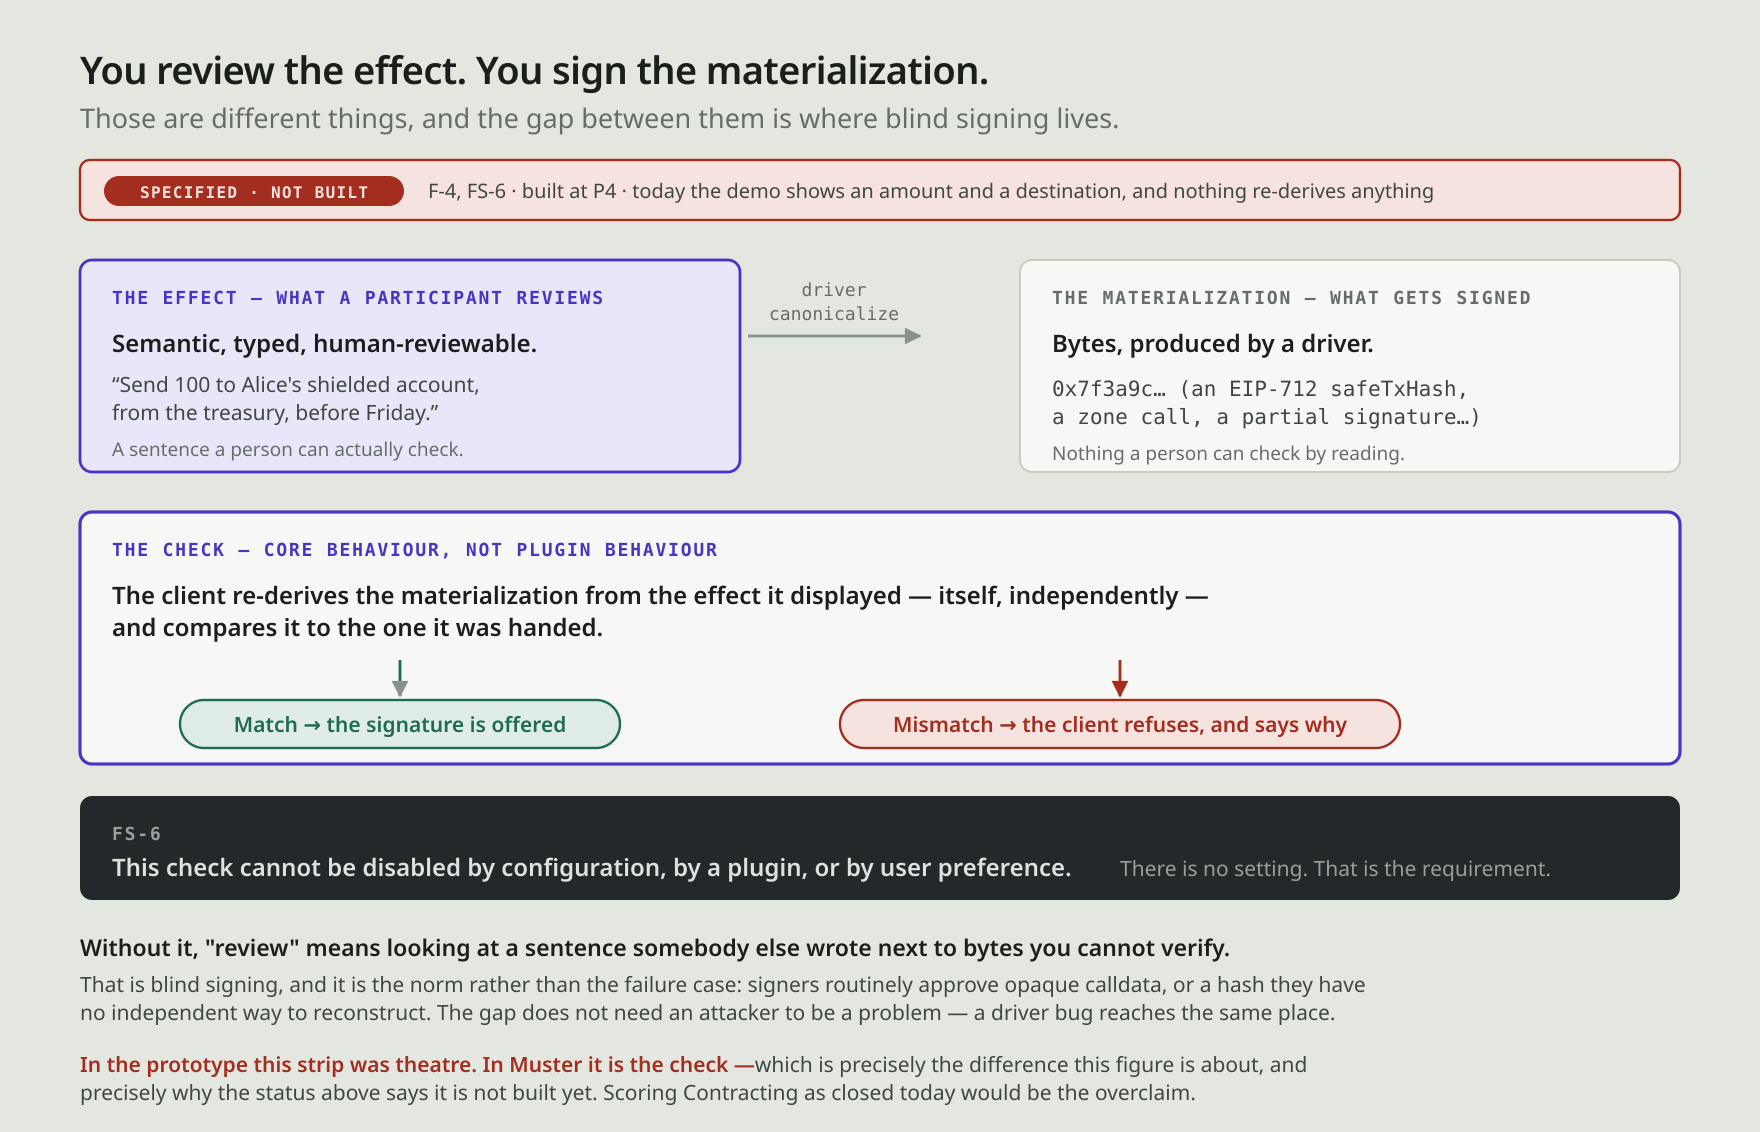
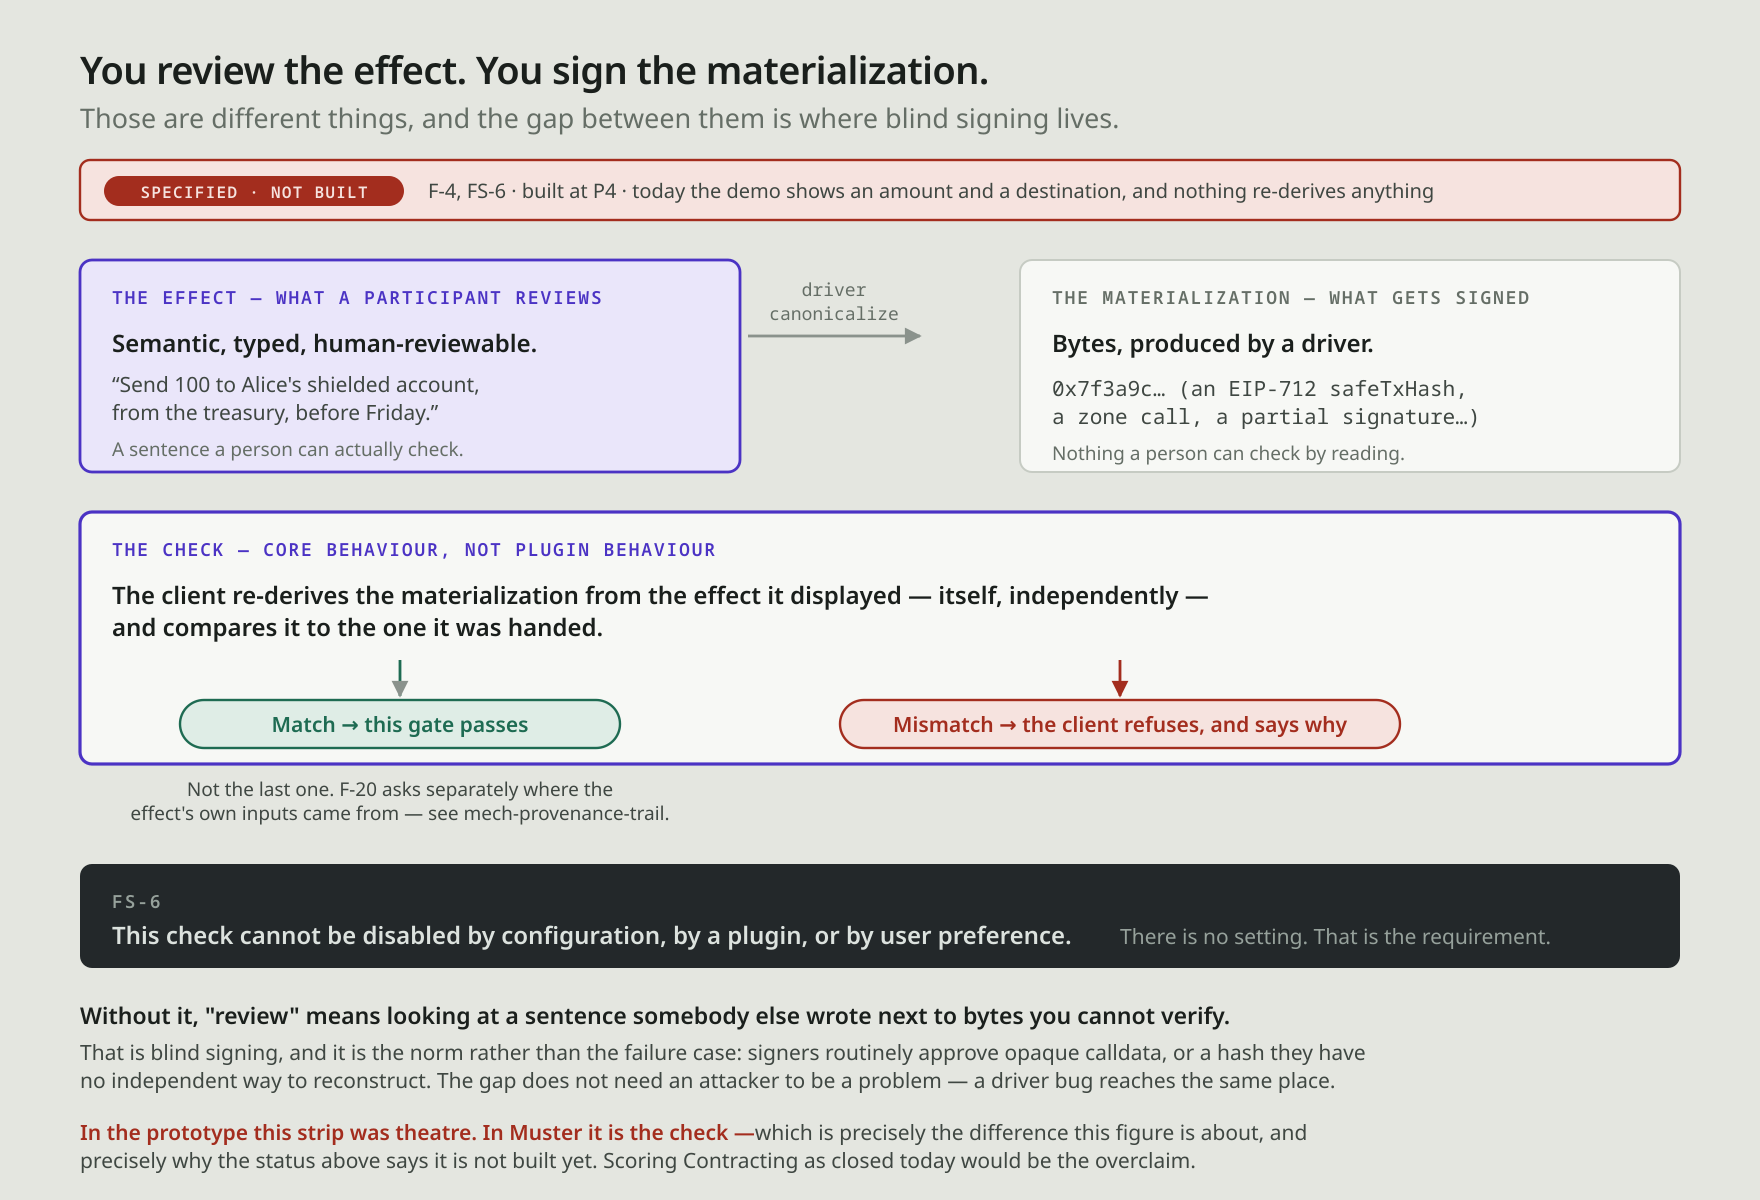
Give invariant 10 its requirements, and draw the hole it closes
Invariant 10 landed citing no requirement ids, because none existed —
every other invariant cites FURPS, and that is where the normative text
is supposed to live. So F-20 and FS-10, and the figure that draws them.

F-20 extends a seam that was already there rather than bolting one on.
F-3 carries "provenance references to facts it depends on" and F-10
grades a fact by how it was verified; F-20 generalizes both from facts to
every input on the signing path, adds the class and log position, and
adds the refusal. FS-10 is the outsider boundary and says out loud what
the boundary is NOT: a participant can always disclose lineage they
legitimately hold, and no requirement here pretends to stop them. The
conversation is the security boundary, so what FS-10 defends against is
reading from outside it.

mech-provenance-trail.svg draws the blind spot first and the fix second,
because the fix is uninteresting until you see that F-4 is satisfied by
correctly-derived data of unknown origin. It carries a harder status
banner than any other figure in the set: specified, no probes written,
four of six oracles waiting on an executor that does not exist. It is
published on the mech-two-identities reasoning — a hole is worth drawing
before its fix is built — not on the "specified and stable" one.

Following the manifest doctrine rather than re-stamping past the warnings
turned up two figures that F-20 had quietly falsified:
[…]

Changed region(s): [[0.0312, 0.0309, 0.9688, 0.9894], [0.0312, 0.0309, 0.0625, 0.0618]]

diff --git a/docs/diagrams/index.html b/docs/diagrams/index.html
@@ -267,9 +267,18 @@ content is measured, read from source, or illustrative.</p>
         <a class="thumb" href="mech-signing-payload.svg"><img src="mech-signing-payload.png" alt="" loading="lazy"></a>
         <div class="meta">
           <h3><a href="mech-signing-payload.svg">What a signing payload commits to, and what each field defeats</a></h3>
-          <p>The fields a signing payload commits to and the specific reuse each one defeats, with the two versioned fields marked apart from the invariant property.</p>
+          <p>The fields a signing payload commits to and the specific reuse each one defeats, with the two versioned fields marked apart from the invariant property, and the provenance record F-20 adds to the same payload.</p>
           <p class="tags"><span class="s s-post">POST</span><span class="g g-from-source">from source</span><span class="g g-illustrative">illustrative</span>
             <a class="src" href="https://github.com/corpetty/muster/blob/main/docs/diagrams/mech-signing-payload.svg">source</a></p>
+        </div>
+      </li>
+      <li class="card">
+        <a class="thumb" href="mech-provenance-trail.svg"><img src="mech-provenance-trail.png" alt="" loading="lazy"></a>
+        <div class="meta">
+          <h3><a href="mech-provenance-trail.svg">Where the data came from, and why re-derivation does not answer it</a></h3>
+          <p>Why re-deriving a materialization does not answer where its inputs came from, what F-20&#x27;s provenance record commits to for each input class, the refusal that gives it teeth, and the two different boundaries it does and does not defend.</p>
+          <p class="tags"><span class="s s-both">BOTH</span><span class="g g-from-source">from source</span><span class="g g-illustrative">illustrative</span>
+            <a class="src" href="https://github.com/corpetty/muster/blob/main/docs/diagrams/mech-provenance-trail.svg">source</a></p>
         </div>
       </li>
       <li class="card">

diff --git a/docs/diagrams/README.md b/docs/diagrams/README.md
@@ -205,8 +205,9 @@ The guarantees, drawn. These serve later posts in the series and double as the r
 | Id | Shows | Serves | Derived from | Must not claim |
 |---|---|---|---|---|
 | **mech-intent-lifecycle** | `draft → proposed → collecting → executable → submitted → settling → final`, with the vision's four teaching questions hanging off each stage. The curriculum spine, and the thing the walkthrough UI is a rendering of | **BOTH** | `00-vision.md` §lifecycle; F-3 | The demo has a subset (propose / approve / pay). Label which stages exist where |
-| **mech-effect-materialization** | F-4/FS-6: what the user reviews (the effect, semantic), what gets signed (the materialization, bytes), the client re-deriving the second from the first, and refusing on mismatch. The contrast with blind signing is the whole point | **BOTH** | `CLAUDE.md` invariant 1; F-4, FS-6 | **Specified and unbuilt.** `GAPS.md` scores Contracting ◑ precisely because of this. A figure showing the check without showing its status would be the exact overclaim the project exists to avoid |
-| **mech-signing-payload** | F-5 as a drawn record: environment, account, slot, expiry, `profile`, `schema-id`, effect value root. Why the signature is worthless anywhere else, and what each field defeats | POST | `CLAUDE.md` invariants 2 and 5b; ADR-009 | Specified. The demo builds no signing payloads at all |
+| **mech-effect-materialization** | F-4/FS-6: what the user reviews (the effect, semantic), what gets signed (the materialization, bytes), the client re-deriving the second from the first, and refusing on mismatch. The contrast with blind signing is the whole point | **BOTH** | `CLAUDE.md` invariant 1; F-4, FS-6 | **Specified and unbuilt.** `GAPS.md` scores Contracting ◑ precisely because of this. A figure showing the check without showing its status would be the exact overclaim the project exists to avoid. Since F-20, a second overclaim is available and must also be avoided: a match is no longer sufficient to offer a signature, so do not draw this check as the last gate — point at `mech-provenance-trail` |
+| **mech-signing-payload** | F-5 as a drawn record: environment, account, slot, expiry, `profile`, `schema-id`, effect value root, and the F-20 provenance record. Why the signature is worthless anywhere else, and what each field defeats | POST | `CLAUDE.md` invariants 2, 5b and 10; ADR-009 | Specified. The demo builds no signing payloads at all |
+| **mech-provenance-trail** | F-20/FS-10: that F-4's re-derivation proves a materialization agrees with its effect and says nothing about where the effect's *inputs* came from — so correctly-derived data of unknown origin passes it. Then the record that closes it (class + log position, per input class), the refusal that gives it teeth, and the two boundaries it does and does not defend | **BOTH** | `CLAUDE.md` invariant 10; F-20, FS-10; spec `derived-exo-3a1` | **Specified and unbuilt, and weaker than that.** None of the spec's six probes exist and four of its oracles await a `model_check` executor, so the invariant is currently asserted rather than checked. Do not draw the trail as a property the client has. Nor draw it as hiding lineage from participants — it does not, and cannot: the boundary is the room |
 | **mech-reduce-log** | State = reduce(log): append, ingest-verify, causal order with deterministic tiebreak, idempotent reducers, convergence under reorder and duplication. Worth drawing the adversarial-order property test as part of the figure | BUILD | `CLAUDE.md` invariant 4; R-2, R-3; P0 accept | The demo has **no log** — it folds `get_messages`. Same shape, different substrate, and the difference is what "nothing you could replay to prove what was agreed" means |
 | **mech-membership-epochs** | F-16: epoch re-key on add and on remove, and precisely what a new member cannot read. The UI seam depends on this being real | **BOTH** | `CLAUDE.md` invariant 7; ADR-002 | ADR-010 is open — whether these epochs are ours or `chat_module`'s is undecided, and the demo "neither verifies nor claims" MLS re-keying |
 | **mech-driver-seam** | Invariant 6 drawn: the core never interprets contribution bytes. Rounds, serialization domain, membership model and finality are driver-described. Stub / Safe / FROST against one interface, with the conformance suite as the gate | BUILD | `CLAUDE.md` invariant 6; F-6, F-7; P1–P2, P6 | — |
@@ -246,6 +247,8 @@ None of this produces a publishable figure. All of it makes every later tranche 
 **Tranche 4 — settlement post.** `pipeline-journey-timeline`, `pipeline-settlement-bug`, `pipeline-findable-unlinkable`.
 
 **Tranche 5 — deferred to their phase.** The Family C mechanics figures, each drawn when its phase makes it real: `mech-reduce-log` and `mech-signing-payload` at P0, `mech-driver-seam` at P1–P2, `mech-membership-epochs` and `mech-two-identities` at P3 (ADR-010's resolution changes what they show), `mech-effect-materialization` at P4, `mech-plugin-blocks` at P5. Two exceptions publishable now: `mech-intent-lifecycle`, because it is specified and stable, and `mech-two-identities`, because its value is drawing an unsolved problem.
+
+**`mech-provenance-trail` is a third exception, on the `mech-two-identities` reasoning rather than the `mech-intent-lifecycle` one.** Its value is that it draws a *hole* — that F-4's re-derivation is satisfied by correctly-derived data of unknown origin — and a hole is worth drawing before its fix is built, not after. It ships with a status banner harder than any other figure's, because F-20 is the least discharged thing in the repo: specified, no probes written, and four of six oracles waiting on an executor that does not exist.
 
 ---
 
@@ -334,8 +337,9 @@ Open question 1 is **decided**: draw the full set now, and put the status where 
 | | Status |
 |---|---|
 | `mech-intent-lifecycle.svg` | **specified · part built** — F-3 · P1. The four states the demo reaches are marked on the states themselves |
-| `mech-effect-materialization.svg` | **specified · not built** — F-4, FS-6 · P4 |
-| `mech-signing-payload.svg` | **specified · not built** — F-5, FS-3 · P1 |
+| `mech-effect-materialization.svg` | **specified · not built** — F-4, FS-6 · P4. Amended for F-20: a match is drawn as one gate passing, not as the signature being offered |
+| `mech-signing-payload.svg` | **specified · not built** — F-5, FS-3, F-20 · P1 |
+| `mech-provenance-trail.svg` | **specified · not built, and unchecked** — F-20, FS-10 · P0–P1. Weaker than the rest of this column: `derived-exo-3a1` passed the SPECIFY gate, but none of its six probes exist and four of its oracles are `model_check` against an executor that has not landed |
 | `mech-reduce-log.svg` | **specified · not built** — F-1, F-2, R-2, R-3 · P0 |
 | `mech-membership-epochs.svg` | **specified · not built** — F-16, U-6 · P3, entangled with ADR-010 |
 | `mech-driver-seam.svg` | **specified · not built** — F-6, F-7, F-8, S-1 · P1–P2 |

diff --git a/docs/01-furps.md b/docs/01-furps.md
@@ -29,6 +29,7 @@ Requirement IDs are stable. Reference them in commits and tests.
 - **F-17** Artifacts and plugin bundles are content-addressed in Logos Storage, behind a storage interface with a local content-addressed store as the first implementation.
 - **F-18** The home surface is a query over intents: `needs-you`, `waiting-on-others`, `settled`. Composition is verb → people → account; the account list is filtered by the verb, and the room opens scoped.
 - **F-19** The intent schema expresses a **list** of authorization requirements even though v0 execution handles exactly one. Multi-account intents must be a data addition, not a schema migration.
+- **F-20** **Input provenance.** Every signing payload commits to a provenance record naming, for each input whose bytes reached the signed payload, its **class** — plugin block (F-12), driver-interpreted contribution (F-6), external read (FS-1), or peer message (F-1) — and its **log position**. The client **MUST refuse to sign when any input's origin cannot be accounted for**; an unaccountable input is a refusal, not a gap in the record. Whether the record additionally names the contributing account is **driver-described** per F-6's membership model: silent under an anonymous model (FS-7), naming the account that actually contributed under a named one. This generalizes F-3's provenance references and F-10's per-fact verification grade from facts to every input on the signing path. F-4's re-derivation proves a materialization is consistent with its effect and says nothing about where the effect's own inputs came from, so correctly-derived data of unknown origin satisfies it.
 
 ### Security (part of F)
 
@@ -41,6 +42,7 @@ Requirement IDs are stable. Reference them in commits and tests.
 - **FS-7** For anonymous-membership drivers, signer identity must not leak through UI state, local logs, timing, or ordering **within the client**. Slots render as count-only. This requirement is scoped to what the client controls; it does not cover what a store node observes at the transport layer (FS-9), and must never be cited as though it did.
 - **FS-8** No telemetry, no phone-home, no automatic update fetch. Updates are manual or an explicitly enabled signed feed.
 - **FS-9** **Metadata honesty.** The client must not claim protection it does not deliver. Concretely, under F-15 a store node observes which content topics a client subscribes to — its conversation set — and the timing of publishes and fetches. That is the conversation graph, pseudonymously, and end-to-end encryption does not hide it. Every surface describing what stays inside the room names this limit where it applies. Closing it requires a mixnet at the transport layer, not an application change; until then it is stated plainly rather than implied away. Running your own store node is not a fix — it protects the operator's own metadata, not that of the people they talk to, and can invert the threat.
+- **FS-10** The provenance record of F-20 is **readable only inside the conversation**, scoped to the membership epoch (F-16) of the entries it describes: a member who joins at a later epoch cannot reconstruct earlier lineage, and an actor holding the log without an epoch's keys reconstructs none of that epoch's record. The record is a reduction over the log, never a side-car store — a provenance file written beside the log would rebuild identically on replay while handing a keyless reader the whole lineage. The refusal in F-20 cannot be disabled by configuration, plugin, or user preference, on the same footing as FS-6. Note the boundary this draws: a *participant* can always disclose lineage they legitimately hold, and F-20 does not attempt to prevent that — the conversation is the security boundary, so what FS-10 protects against is reading from **outside** it.
 
 ## U — Usability
 

diff --git a/CLAUDE.md b/CLAUDE.md
@@ -17,7 +17,7 @@ Built as logos-core modules: a Nim backend (`muster-module.lgx`) and a QML front
 7. **Membership epochs are real:** adding a member re-keys forward; they cannot read earlier epochs (F-16). The UI seam depends on this.
 8. **No server, no telemetry.** Store nodes and RPC are untrusted, user-configurable infrastructure (FS-1, FS-8).
 9. **Anonymous drivers stay anonymous** end to end: no signer identity in UI state, logs, or ordering (FS-7).
-10. **Nothing is signed whose inputs can't be accounted for.** Every signing payload commits to a provenance record naming, for each input that reached the signed bytes, its class (plugin block, driver-interpreted contribution, external read, peer message) and its log position — and signing is *refused* when any input's origin is unaccountable. Invariant 1 proves a materialization is consistent with its effect; it says nothing about where the effect's inputs came from, so correctly-derived data of unknown origin passes it. Whether the record *also* names the contributing account is driver-described (6), following the declared membership model: silent under an anonymous driver, so 9 survives the trail; naming under a named one, where every participant could disclose the same fact anyway. The boundary that matters is the conversation, not the participant — the record is a reduction over the log rather than a side-car store (4), and is scoped to the membership epoch of the entries it describes, so a later joiner cannot read earlier lineage (7). Spec `derived-exo-3a1`.
+10. **Nothing is signed whose inputs can't be accounted for.** Every signing payload commits to a provenance record naming, for each input that reached the signed bytes, its class (plugin block, driver-interpreted contribution, external read, peer message) and its log position — and signing is *refused* when any input's origin is unaccountable. Invariant 1 proves a materialization is consistent with its effect; it says nothing about where the effect's inputs came from, so correctly-derived data of unknown origin passes it. Whether the record *also* names the contributing account is driver-described (6), following the declared membership model: silent under an anonymous driver, so 9 survives the trail; naming under a named one, where every participant could disclose the same fact anyway. The boundary that matters is the conversation, not the participant — the record is a reduction over the log rather than a side-car store (4), and is scoped to the membership epoch of the entries it describes, so a later joiner cannot read earlier lineage (7) — the boundary is the room, not the participant, who can always disclose what they legitimately hold (F-20, FS-10). Spec `derived-exo-3a1`.
 
 ## Pattern sources
 
